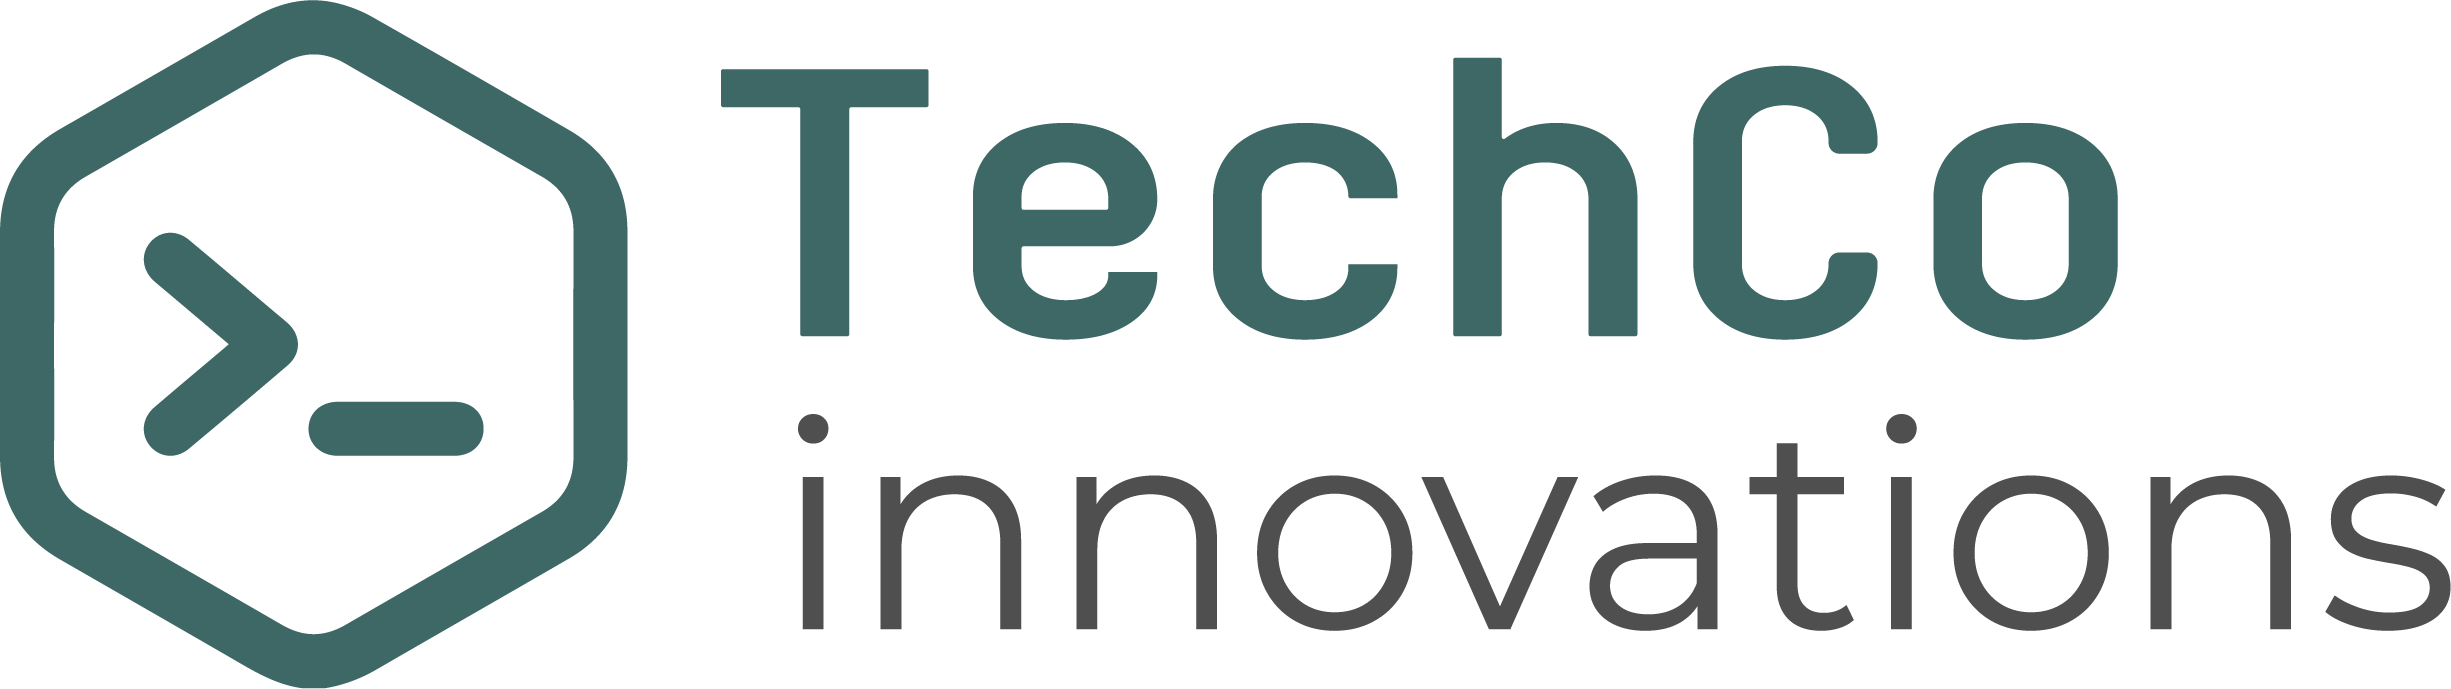
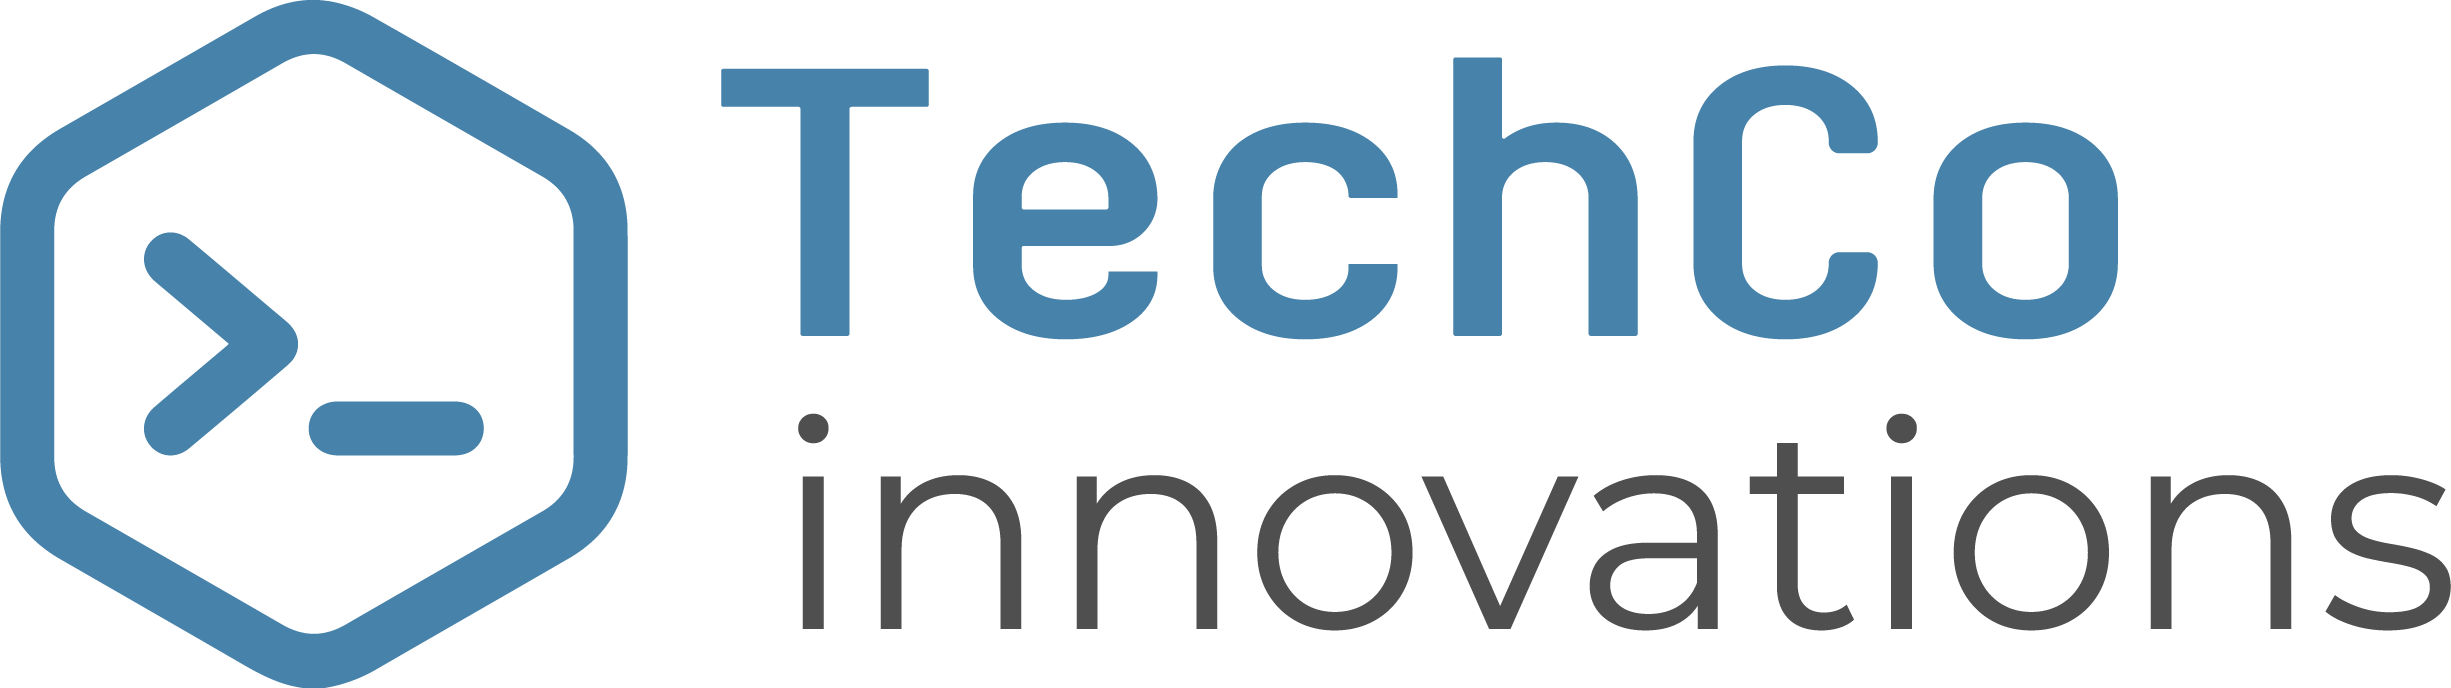
color-changed

Changed region(s): [[0.2791, 0.061, 0.8682, 0.4884], [0.0, 0.0, 0.2791, 1.0]]

diff --git a/src/HomePage/HomePage.jsx b/src/HomePage/HomePage.jsx
@@ -21,7 +21,7 @@ const HomePage = () => {
       <div className="md:flex bg-[#151C34] pt-10 md:pl-20 gap-2">
         {/* Left Column */}
         <div className="flex-1 p-8 text-left">
-          <h1 className="text-5xl font-bold mb-4 text-[#2BAD81] pb-5 leading-normal">
+          <h1 className="text-5xl font-bold mb-4 text-[#4682a9] pb-5 leading-normal">
             <span className="text-white">EMPOWERED</span> BY <br />
             Tech Enthusiasts and Godlike Masterminds!
           </h1>
@@ -54,7 +54,7 @@ const HomePage = () => {
         </div>
         {/* Right Column */}
         <div className="flex-1 p-8 text-left">
-          <h1 className="text-5xl font-bold mb-4 text-[#2BAD81] pb-5">
+          <h1 className="text-5xl font-bold mb-4 text-[#4682a9] pb-5">
             Why TechCo?
           </h1>
           <p className="text-lg mb-4 text-white md:w-3/4 leading-loose">
@@ -76,7 +76,7 @@ const HomePage = () => {
       <div className="md:flex bg-[#151C34] py-28 md:pl-20">
         {/* Left Column */}
         <div className="flex-1 p-8 text-left">
-          <h1 className="text-5xl font-bold mb-4 text-[#2BAD81] pb-5">
+          <h1 className="text-5xl font-bold mb-4 text-[#4682a9] pb-5">
             Specialized Products
           </h1>
           <p className="text-lg mb-4 text-white md:w-3/4 leading-loose">
@@ -102,7 +102,7 @@ const HomePage = () => {
         <TechCard />
       </div>
       <div className="flex-1 bg-[#151C34] pt-10 px-10 pb-16">
-        <h1 className="text-5xl font-semibold text-[#2BAD81] pb-8">
+        <h1 className="text-5xl font-semibold text-[#4682a9] pb-8">
           Client Testimonials
         </h1>
         <Swiper
@@ -121,7 +121,7 @@ const HomePage = () => {
               <div className="flex">
                 <FontAwesomeIcon
                   icon={faQuoteLeft}
-                  style={{ color: "#2BAD81" }}
+                  style={{ color: "#4682a9" }}
                 />
               </div>
 
@@ -136,7 +136,7 @@ const HomePage = () => {
               <div className="flex justify-end">
                 <FontAwesomeIcon
                   icon={faQuoteRight}
-                  style={{ color: "#2BAD81" }}
+                  style={{ color: "#4682a9" }}
                 />
               </div>
               <div className="flex items-center text-left">
@@ -146,7 +146,7 @@ const HomePage = () => {
                   className="rounded-full w-14 h-14"
                 />
                 <p className="pl-2 text-white">
-                  <span className="text-[#2BAD81]">Alister Cook</span>
+                  <span className="text-[#4682a9]">Alister Cook</span>
                   <br /> COO at Riverine
                 </p>
               </div>
@@ -157,7 +157,7 @@ const HomePage = () => {
               <div className="flex">
                 <FontAwesomeIcon
                   icon={faQuoteLeft}
-                  style={{ color: "#2BAD81" }}
+                  style={{ color: "#4682a9" }}
                 />
               </div>
 
@@ -172,7 +172,7 @@ const HomePage = () => {
               <div className="flex justify-end">
                 <FontAwesomeIcon
                   icon={faQuoteRight}
-                  style={{ color: "#2BAD81" }}
+                  style={{ color: "#4682a9" }}
                 />
               </div>
               <div className="flex items-center text-left">
@@ -182,7 +182,7 @@ const HomePage = () => {
                   className="rounded-full w-14 h-14"
                 />
                 <p className="pl-2 text-white">
-                  <span className="text-[#2BAD81]">Alister Cook</span>
+                  <span className="text-[#4682a9]">Alister Cook</span>
                   <br /> COO at Riverine
                 </p>
               </div>
@@ -193,7 +193,7 @@ const HomePage = () => {
               <div className="flex">
                 <FontAwesomeIcon
                   icon={faQuoteLeft}
-                  style={{ color: "#2BAD81" }}
+                  style={{ color: "#4682a9" }}
                 />
               </div>
 
@@ -208,7 +208,7 @@ const HomePage = () => {
               <div className="flex justify-end">
                 <FontAwesomeIcon
                   icon={faQuoteRight}
-                  style={{ color: "#2BAD81" }}
+                  style={{ color: "#4682a9" }}
                 />
               </div>
               <div className="flex items-center text-left">
@@ -218,7 +218,7 @@ const HomePage = () => {
                   className="rounded-full w-14 h-14"
                 />
                 <p className="pl-2 text-white">
-                  <span className="text-[#2BAD81]">Alister Cook</span>
+                  <span className="text-[#4682a9]">Alister Cook</span>
                   <br /> COO at Riverine
                 </p>
               </div>
@@ -229,7 +229,7 @@ const HomePage = () => {
               <div className="flex">
                 <FontAwesomeIcon
                   icon={faQuoteLeft}
-                  style={{ color: "#2BAD81" }}
+                  style={{ color: "#4682a9" }}
                 />
               </div>
 
@@ -244,7 +244,7 @@ const HomePage = () => {
               <div className="flex justify-end">
                 <FontAwesomeIcon
                   icon={faQuoteRight}
-                  style={{ color: "#2BAD81" }}
+                  style={{ color: "#4682a9" }}
                 />
               </div>
               <div className="flex items-center text-left">
@@ -254,7 +254,7 @@ const HomePage = () => {
                   className="rounded-full w-14 h-14"
                 />
                 <p className="pl-2 text-white">
-                  <span className="text-[#2BAD81]">Alister Cook</span>
+                  <span className="text-[#4682a9]">Alister Cook</span>
                   <br /> COO at Riverine
                 </p>
               </div>

diff --git a/src/About/About.jsx b/src/About/About.jsx
@@ -10,7 +10,7 @@ const About = () => {
       <div className="md:flex bg-[#151C34] py-20 md:pl-20 gap-4">
         {/* Left Column */}
         <div className="flex-1 p-8 text-left">
-          <h1 className="text-6xl font-bold mb-4 text-[#2BAD81] pb-5">
+          <h1 className="text-6xl font-bold mb-4 text-[#4682a9] pb-5">
             <span className="text-white">Seamless</span> Integration
           </h1>
           <p className="text-xl mb-4 text-white md:w-3/4 leading-loose">
@@ -38,7 +38,7 @@ const About = () => {
         </div>
         {/* Right Column */}
         <div className="flex-1 p-8 text-left">
-          <h1 className="text-5xl font-bold mb-4 text-[#2BAD81] pb-5">
+          <h1 className="text-5xl font-bold mb-4 text-[#4682a9] pb-5">
             Future-Ready Solutions
           </h1>
           <p className="text-lg mb-4 text-white md:w-3/4 leading-loose">
@@ -52,7 +52,7 @@ const About = () => {
       <div className="md:flex bg-[#151C34] pt-28 md:pl-20 gap-4">
         {/* Left Column */}
         <div className="flex-1 p-8 text-left">
-          <h1 className="text-5xl font-bold mb-4 text-[#2BAD81] pb-5">
+          <h1 className="text-5xl font-bold mb-4 text-[#4682a9] pb-5">
             Unparalleled Expertise
           </h1>
           <p className="text-lg mb-4 text-white md:w-3/4 leading-loose">
@@ -80,7 +80,7 @@ const About = () => {
         </div>
         {/* Right Column */}
         <div className="flex-1 p-8 text-left">
-          <h1 className="text-5xl font-bold mb-4 text-[#2BAD81] pb-5">
+          <h1 className="text-5xl font-bold mb-4 text-[#4682a9] pb-5">
             End-to-End Services
           </h1>
           <p className="text-lg mb-4 text-white md:w-3/4 leading-loose">
@@ -94,7 +94,7 @@ const About = () => {
       <div className="md:flex bg-[#151C34] py-28 md:p-20 gap-2">
         {/* Left Column */}
         <div className="flex-1 p-8 text-left">
-          <h1 className="text-5xl font-bold mb-4 text-[#2BAD81] pb-5">
+          <h1 className="text-5xl font-bold mb-4 text-[#4682a9] pb-5">
             Security First
           </h1>
           <p className="text-lg mb-4 text-white w-3/4 leading-loose">

diff --git a/src/NavigationBar/NavigationBar.jsx b/src/NavigationBar/NavigationBar.jsx
@@ -53,17 +53,17 @@ const NavigationBar = () => {
           } md:flex-row md:flex flex-col flex-nowrap gap-7 text-base md:pr-10 mt-4 md:mt-0 absolute pr-2 top-12 right-2 text-right`}
         >
           <li>
-            <Link to="/" className="text-white hover:text-[#2BAD81]">
+            <Link to="/" className="text-white hover:text-[#4682a9]">
               Home
             </Link>
           </li>
           <li>
-            <Link to="/about" className="text-white hover:text-[#2BAD81]">
+            <Link to="/about" className="text-white hover:text-[#4682a9]">
               About Us
             </Link>
           </li>
           <li>
-            <a href="#" className="text-white hover:text-[#2BAD81]">
+            <a href="#" className="text-white hover:text-[#4682a9]">
               Services
             </a>
           </li>
@@ -71,7 +71,7 @@ const NavigationBar = () => {
             <Link
               to="/contact"
               href="#"
-              className="text-white hover:text-[#2BAD81]"
+              className="text-white hover:text-[#4682a9]"
             >
               Contact Us
             </Link>

diff --git a/src/ContactUs/ContactUs.jsx b/src/ContactUs/ContactUs.jsx
@@ -12,7 +12,7 @@ const ContactUs = () => {
             Join hands with us to unlock a world of possibilities and elevate
             your <br />
             business to new heights. <br />
-            <span className="text-[#487a78]">Contact</span> us today to embark
+            <span className="text-[#4682a9]">Contact</span> us today to embark
             on a <br />
             transformative journey into the future of technology
           </h1>

diff --git a/src/TechCards/TechCards.jsx b/src/TechCards/TechCards.jsx
@@ -6,7 +6,7 @@ const TechCards = ({ data }) => {
     <div className="flex justify-center bg-[#151C34]">
       <div className="w-96 text-center p-4 bg-[#2C2946]">
         <img src={data.logoUrl} className="w-32 h-32 mx-auto mb-2" />
-        <p className="text-[#2BAD81] text-xl font-semibold">{data.name}</p>
+        <p className="text-[#4682a9] text-xl font-semibold">{data.name}</p>
       </div>
     </div>
   );
